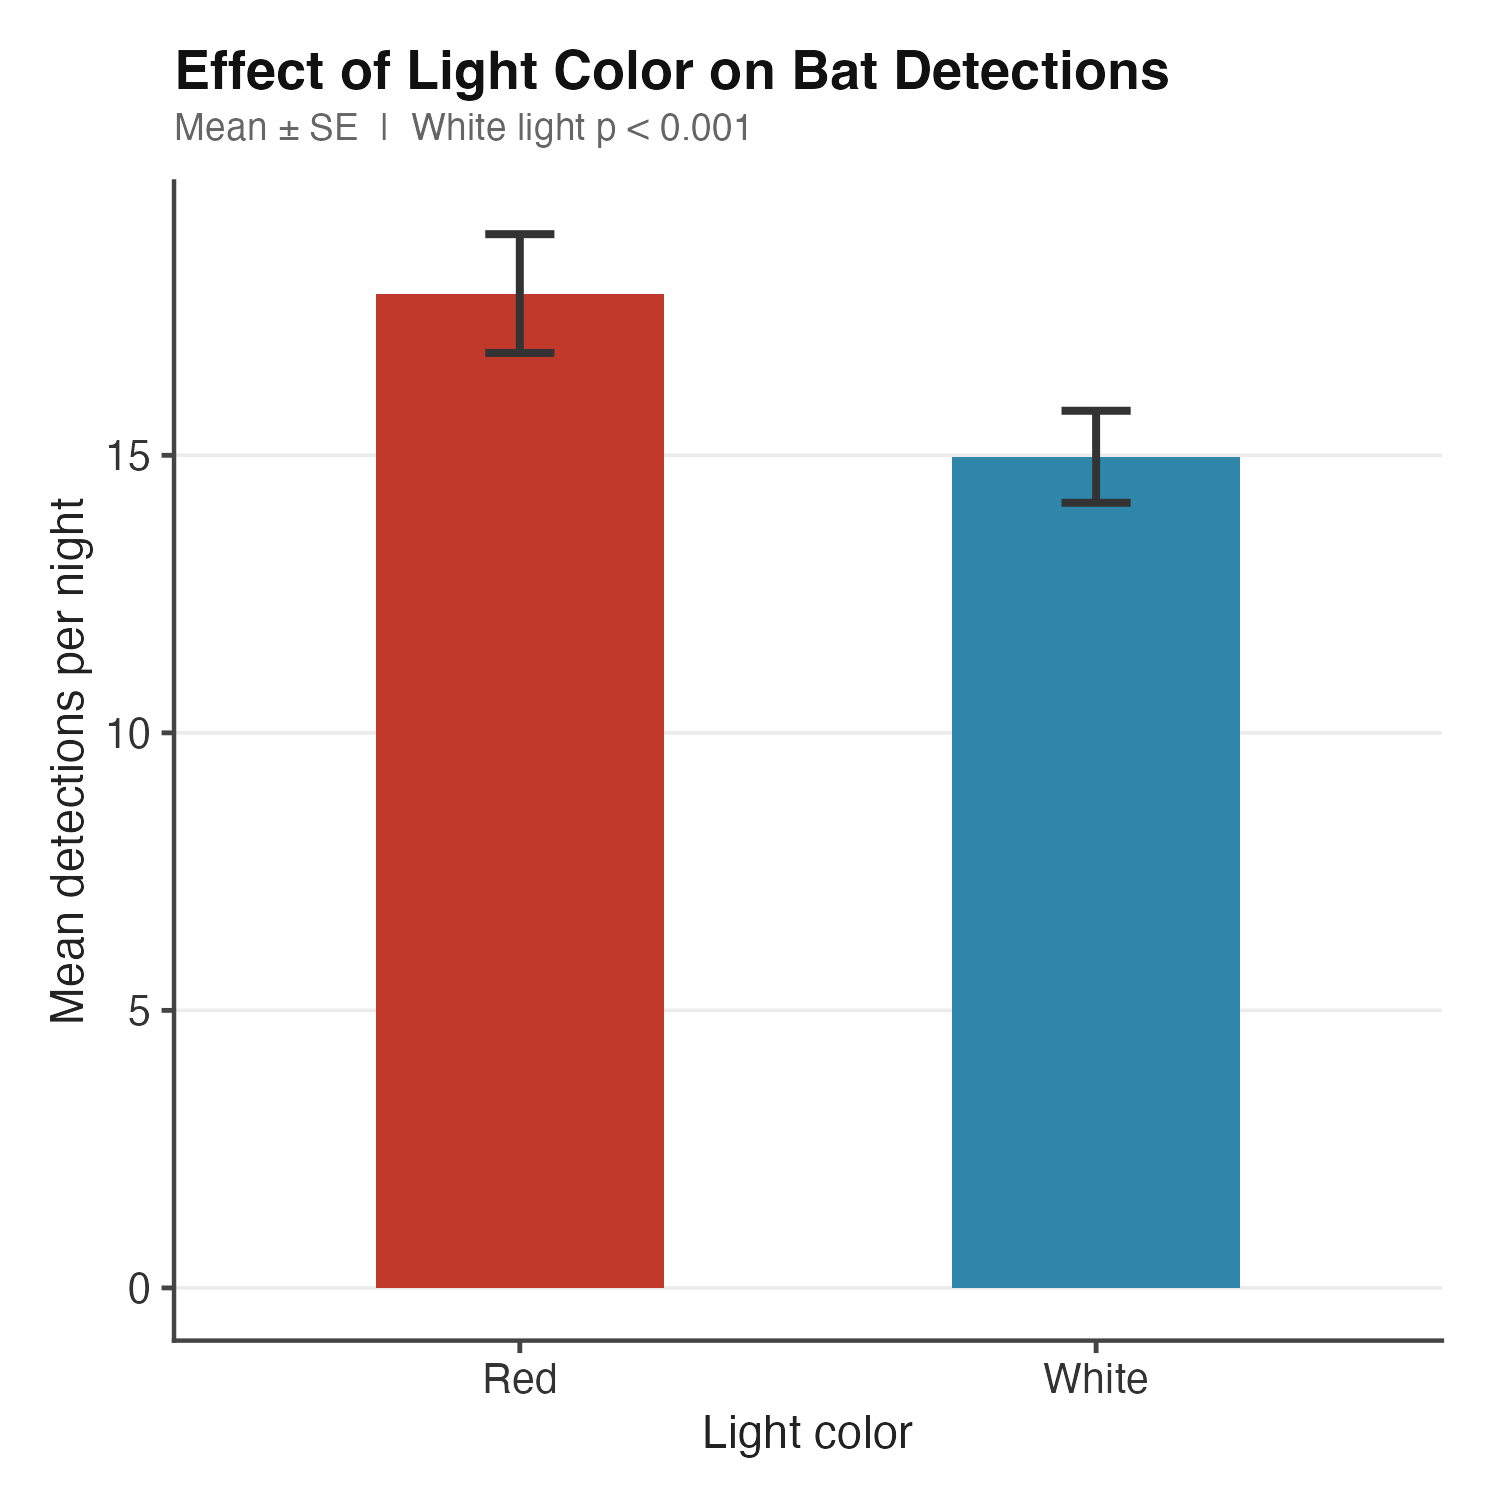
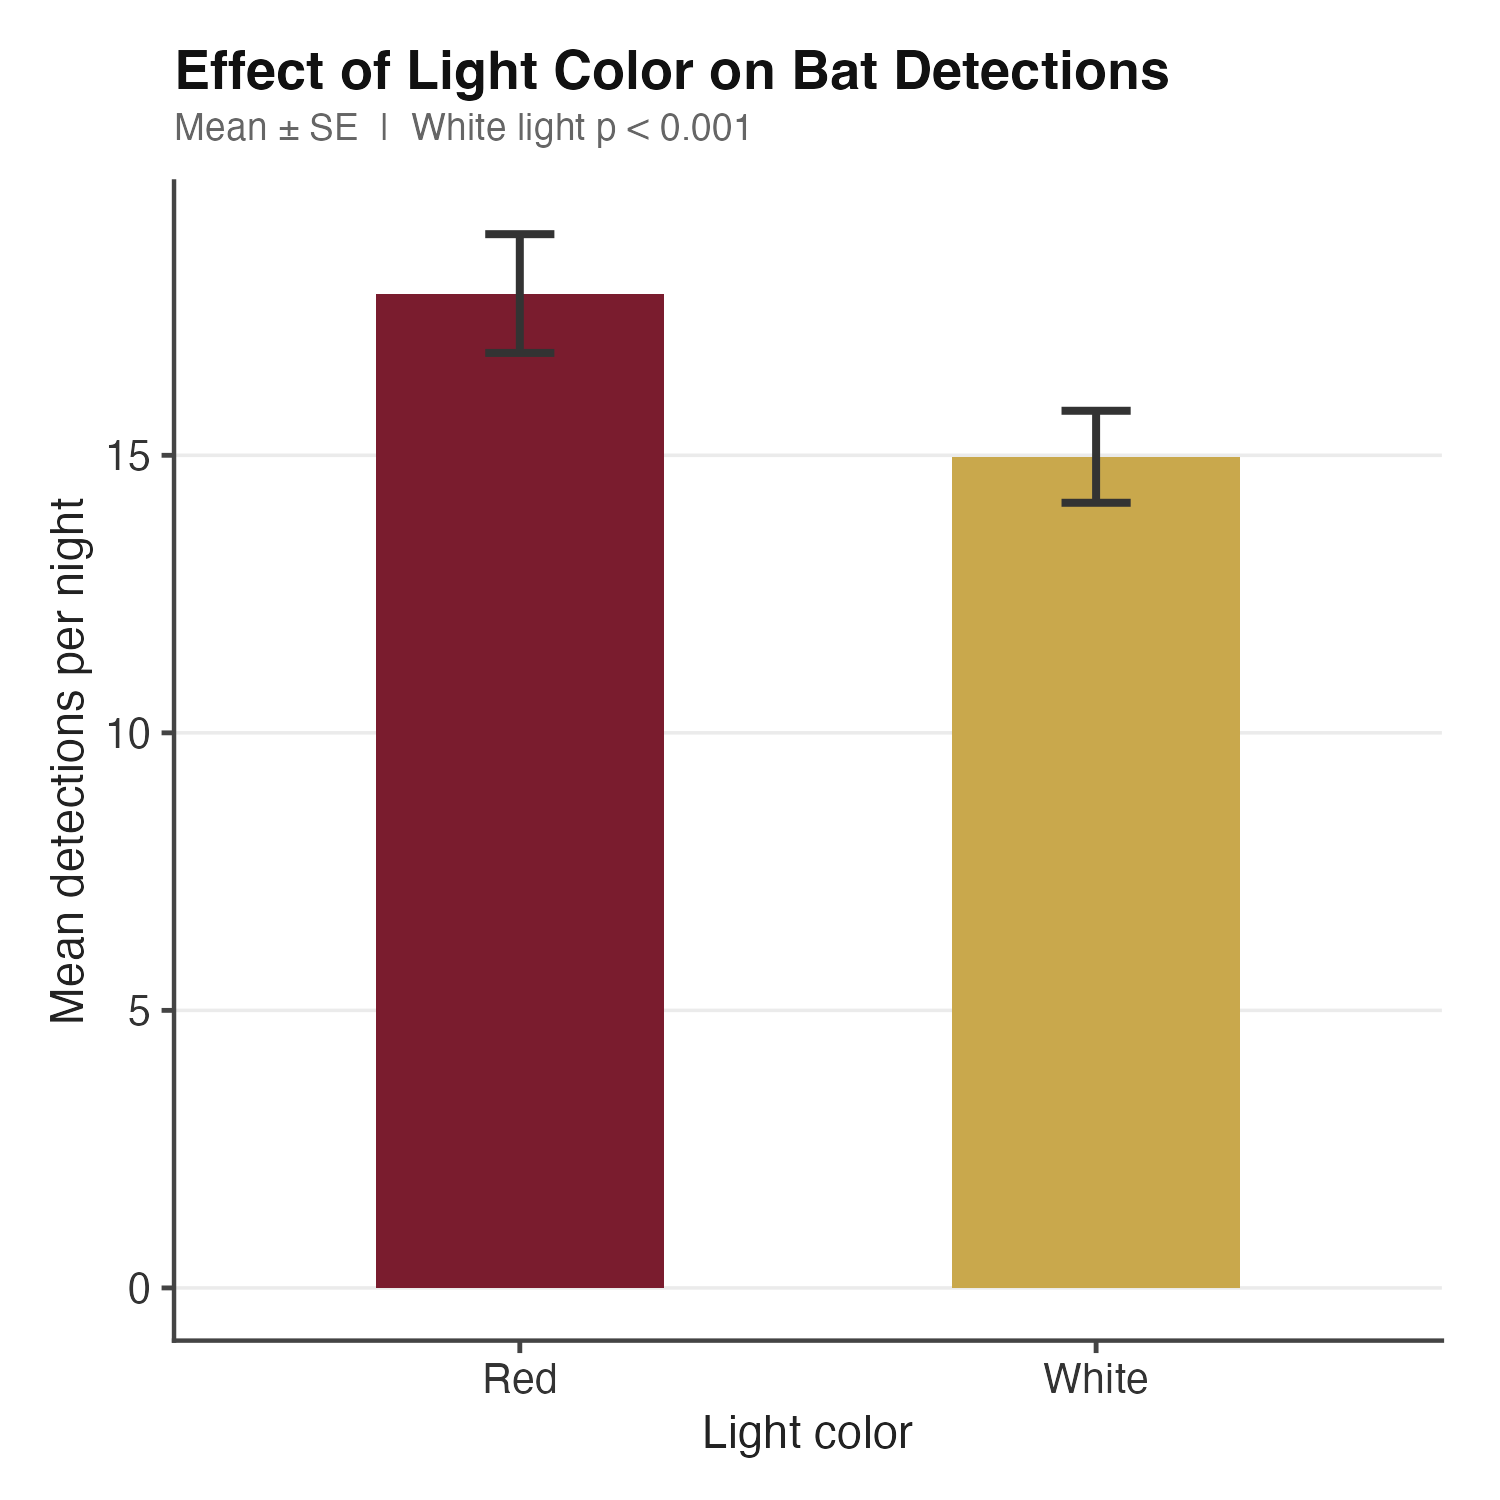
changed color theme

Changed region(s): [[0.2453, 0.184, 0.46, 0.8587], [0.6133, 0.3067, 0.828, 0.8587]]

diff --git a/storyboard.tex b/storyboard.tex
@@ -183,23 +183,24 @@ significant difference. White and red converge above 50\% intensity.
 \begin{figure}[H]
   \centering
   \includegraphics[width=\linewidth]{fig1_color_effect.png}
-  \caption{Mean detections per night by light colour, averaged across
-  intensities. Error bars = SE.}
+  \caption{Mean detections per night by light colour (cardinal crimson =
+  red, gilded gold = white), averaged across intensities. Error bars = SE.}
 \end{figure}
 
 \begin{figure}[H]
   \centering
   \includegraphics[width=\linewidth]{fig1_color_intensity.png}
   \caption{Mean detections per night by colour at each intensity level
-  with 95\% CI. Red peaks at 30\% and converges with white at high
-  intensity.}
+  with 95\% CI. Cardinal crimson (red) peaks at 30\% and converges with
+  gilded gold (white) at high intensity.}
 \end{figure}
 
 \begin{figure}[H]
   \centering
   \includegraphics[width=\linewidth]{fig3_color_intensity.png}
   \caption{Colour $\times$ intensity interaction: predicted detections
-  from the GLMM on the response scale.}
+  from the GLMM on the response scale. Cardinal crimson = red light;
+  gilded gold = white light.}
 \end{figure}
 
 % ============================================================
@@ -241,15 +242,16 @@ all intensities --- no pairwise contrast survives Holm correction.
   \centering
   \includegraphics[width=\linewidth]{fig4_seasonal.png}
   \caption{Seasonal trend in bat detections by light colour. LOESS
-  smoothed; shading = 95\% CI. Both colours decline through the season;
-  red/white separation persists across survey period.}
+  smoothed. Cardinal crimson (red) and gilded gold (white) both decline
+  through the season; red/white separation persists across the survey
+  period.}
 \end{figure}
 
 \begin{figure}[H]
   \centering
   \includegraphics[width=\linewidth]{fig6_moon_phase.png}
-  \caption{Bat detections vs.\ moon phase by colour. No evident
-  colour $\times$ moon interaction.}
+  \caption{Bat detections vs.\ moon phase by colour (cardinal crimson =
+  red, gilded gold = white). No evident colour $\times$ moon interaction.}
 \end{figure}
 
 % ============================================================
@@ -312,14 +314,26 @@ p $=$ 0.0003). 70\% and 100\% converge only at far distances.
 \begin{figure}[H]
   \centering
   \includegraphics[width=\linewidth]{fig7_distance_gradient.png}
-  \caption{Site-level mean detections vs.\ distance from light source (km)
-  with linear trend and Spearman correlation.}
+  \caption{Site-level mean detections vs.\ distance from light source (km).
+  Points in cardinal crimson; nave navy trend line with manuscript ivory
+  confidence band.}
 \end{figure}
 
 \begin{figure}[H]
   \centering
   \includegraphics[width=\linewidth]{fig3_distance_treatment.png}
   \caption{Detections by distance category and light treatment.}
+\end{figure}
+
+\begin{figure}[H]
+  \centering
+  \includegraphics[width=\linewidth]{fig9_dist_intensity.png}
+  \caption{Predicted bat detections across the distance gradient by light
+  intensity level. Marginal means $\pm$ 95\% CI from the negative binomial
+  GLMM. Intensity palette: manuscript ivory (10\%), gilded gold (30\%),
+  papal purple (50\%), cardinal crimson (70\%), nave navy (100\%). Steeper
+  recovery with distance at 70\% and 100\% reflects the significant
+  intensity $\times$ distance interaction.}
 \end{figure}
 
 % ============================================================
@@ -376,7 +390,8 @@ not spread.
   \centering
   \includegraphics[width=\linewidth]{fig5_community_heatmap.png}
   \caption{Species activity heatmap (z-scored within species) by light
-  colour and intensity.}
+  colour and intensity. Scale runs manuscript ivory (low) to nave navy
+  (high).}
 \end{figure}
 
 % ============================================================
@@ -405,14 +420,16 @@ to any measured predictor. Colour is non-significant for all species.
 \begin{figure}[H]
   \centering
   \includegraphics[width=\linewidth]{fig8_species_distance.png}
-  \caption{Species activity by distance category (z-scored within species).}
+  \caption{Species activity by distance category (z-scored within species).
+  Scale runs manuscript ivory (low) to nave navy (high).}
 \end{figure}
 
 \begin{figure}[H]
   \centering
   \includegraphics[width=\linewidth]{species_color_effect.png}
-  \caption{Left: marginal means $\pm$ 95\% CI by colour, ranked by species.
-  Right: white/red detection ratio by intensity level per species.
+  \caption{Left: marginal means $\pm$ 95\% CI by colour (cardinal crimson =
+  red, gilded gold = white), ranked by species. Right: white/red detection
+  ratio by intensity level per species (Catholic intensity palette).
   Ratio $>$ 1 = more detections under white; $<$ 1 = more under red.}
 \end{figure}
 
@@ -420,7 +437,8 @@ to any measured predictor. Colour is non-significant for all species.
   \centering
   \includegraphics[width=\linewidth]{species_ratio_heatmap.png}
   \caption{Log$_2$(white/red) heatmap by species and intensity. Negative
-  values (red) = white suppresses relative to red.}
+  values (cardinal crimson) = white suppresses relative to red; positive
+  values (gilded gold) = white enhances. Manuscript ivory = parity.}
 \end{figure}
 
 % ============================================================
